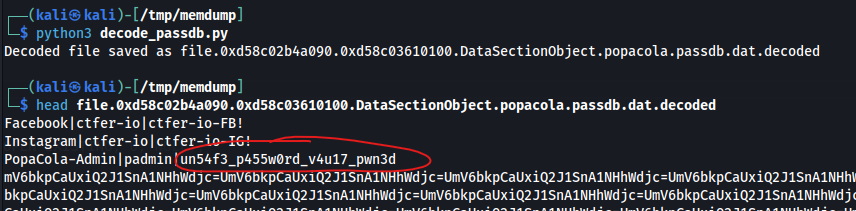
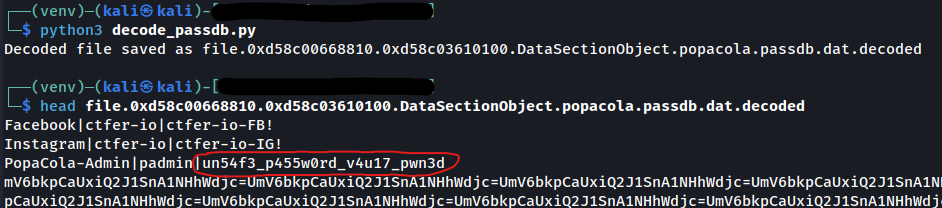
Chall/the vault dweller (#37)
* adding the vault dweller

* update WU and add checksums in the dist

* fix: modifying WU and files according to the new memdump.zip

diff --git a/challenges/forensic/the-vault-dweller/wu.md b/challenges/forensic/the-vault-dweller/wu.md
@@ -11,31 +11,30 @@ On commence par identifier l'image mémoire qui nous a été donnée :
 
 ```bash
 # On identifie que c'est une image Windows avec file 
-file DESKTOP-VTIHOVH-20250426-132242.raw
+file DESKTOP-VTIHOVH-20250429-155900.raw
 ---
-DESKTOP-VTIHOVH-20250426-132242.raw: Windows Event Trace Log
+DESKTOP-VTIHOVH-20250429-155900.raw: Windows Event Trace Log
 ```
 
 ```bash
 # On récupère quelques informations sur l'image
-vol -f DESKTOP-VTIHOVH-20250426-132242.raw windows.info
+vol -f DESKTOP-VTIHOVH-20250429-155900.raw windows.info
 ```
 
 On scanne les processus lancés sur la machine :
 
 ```bash
-vol -f DESKTOP-VTIHOVH-20250426-132242.raw windows.pslist
+vol -f DESKTOP-VTIHOVH-20250429-155900.raw windows.pslist
 ---
 PID	    PPID	ImageFileName	Offset(V)	Threads	Handles	SessionId	Wow64	CreateTime	ExitTime	File output
 [SNIP]
-2800	948	    FileCoAuth.exe	0xd58bfd541080	2	-	1	False	2025-04-26 12:15:53.000000 UTC	N/A	Disabled
-9352	7992	msedge.exe	    0xd58bfd459080	10	-	1	False	2025-04-26 12:16:14.000000 UTC	N/A	Disabled
-9424	948	    RuntimeBroker.	0xd58bfe471080	3	-	1	False	2025-04-26 12:16:15.000000 UTC	N/A	Disabled
-8	    7992	msedge.exe	    0xd58bfd7e1080	17	-	1	False	2025-04-26 12:27:36.000000 UTC	N/A	Disabled
-2736	5300	Notepad.exe	    0xd58bfe0e6080	22	-	1	False	2025-04-26 12:32:05.000000 UTC	N/A	Disabled
-4732	5300	pcola-vault-ma	0xd58bfcc7e080	1	-	1	False	2025-04-26 12:37:52.000000 UTC	N/A	Disabled
-10236	4732	conhost.exe	    0xd58bfbfb8080	2	-	1	False	2025-04-26 12:37:52.000000 UTC	N/A	Disabled
-6684	948	    OpenConsole.ex	0xd58bfd9f5080	7	-	1	False	2025-04-26 12:37:52.000000 UTC	N/A	Disabled
+2696	7992	msedge.exe	    0xd58bfe1820c0	16	-	1	False	2025-04-29 15:47:23.000000 UTC	N/A	Disabled
+5844	796	    svchost.exe 	0xd58bfcbac0c0	11	-	0	False	2025-04-29 15:47:41.000000 UTC	N/A	Disabled
+6728	2240	audiodg.exe	    0xd58bfb9eb080	8	-	0	False	2025-04-29 15:47:43.000000 UTC	N/A	Disabled
+11816	5300	Notepad.exe	    0xd58bfd9f0080	17	-	1	False	2025-04-29 15:58:38.000000 UTC	N/A	Disabled
+1832	5300	pcola-vault-mg	0xd58bfc427080	15	-	1	False	2025-04-29 15:58:43.000000 UTC	N/A	Disabled
+11132	1832	conhost.exe	    0xd58bffc48080	6	-	1	False	2025-04-29 15:58:43.000000 UTC	N/A	Disabled
+4500	948	    OpenConsole.ex	0xd58bffd94080	11	-	1	False	2025-04-29 15:58:43.000000 UTC	N/A	Disabled
 [SNIP]
 ```
 
@@ -127,12 +126,14 @@ C'est ça qui cause les crash de l'application.
 Maintenant qu'on a davantage d'informations sur le fonctionnement de **pcola-vault-manager**, on dump le contenu du processus de la capture mémoire.
 
 ```bash
-vol -f DESKTOP-VTIHOVH-20250426-132242.raw windows.dumpfiles.DumpFiles --pid 4732
+vol -f DESKTOP-VTIHOVH-20250429-155900.raw windows.dumpfiles --pid 1832
 ---
 [SNIP]
-DataSectionObject	0xd58bfd077a20	windows.storage.dll.mui	Error dumping file
-DataSectionObject	0xd58c02b4a090	popacola.passdb	file.0xd58c02b4a090.0xd58c03610100.DataSectionObject.popacola.passdb.dat
-SharedCacheMap	0xd58c02b4a090	popacola.passdb	file.0xd58c02b4a090.0xd58bff824560.SharedCacheMap.popacola.passdb.vacb
+DataSectionObject	0xd58c00643330	user32.dll.mui	Error dumping file
+DataSectionObject	0xd58c00668810	popacola.passdb	file.0xd58c00668810.0xd58c03610100.DataSectionObject.popacola.passdb.dat
+SharedCacheMap	    0xd58c00668810	popacola.passdb	file.0xd58c00668810.0xd58bf85de010.SharedCacheMap.popacola.passdb.vacb
+DataSectionObject	0xd58c02e0bde0	StaticCache.dat	Error dumping file
+
 [SNIP]
 ```
 
@@ -145,19 +146,22 @@ Si on prend un peu de recul sur la situation, on peut voir qu'un processus *note
 Il se trouve que si on le dump on récupère un fichier qui nous intéresse.
 
 ```bash
-vol -f DESKTOP-VTIHOVH-20250426-132242.raw windows.dumpfiles.DumpFiles --pid 2736
+vol -f DESKTOP-VTIHOVH-20250429-155900.raw windows.dumpfiles --pid 11816
 ---
 [SNIP]
-DataSectionObject	0xd58c03e2dc10	R000000000006.clb	Error dumping file
-DataSectionObject	0xd58c03e056c0	1743ed46-d349-4695-a3e4-b3148aecab16.bin	file.0xd58c03e056c0.0xd58c00cba240.DataSectionObject.1743ed46-d349-4695-a3e4-b3148aecab16.bin.dat
-SharedCacheMap	0xd58c03e056c0	1743ed46-d349-4695-a3e4-b3148aecab16.bin	file.0xd58c03e056c0.0xd58bfd4d3870.SharedCacheMap.1743ed46-d349-4695-a3e4-b3148aecab16.bin.vacb
-DataSectionObject	0xd58bfd06d480	461036df-241d-4b85-8a32-a036a4ead270.1.bin	file.0xd58bfd06d480.0xd58bfd7c6440.DataSectionObject.461036df-241d-4b85-8a32-a036a4ead270.1.bin.dat
-SharedCacheMap	0xd58bfd06d480	461036df-241d-4b85-8a32-a036a4ead270.1.bin	file.0xd58bfd06d480.0xd58bfc8b4010.SharedCacheMap.461036df-241d-4b85-8a32-a036a4ead270.1.bin.vacb
+DataSectionObject	0xd58c02e08410	461036df-241d-4b85-8a32-a036a4ead270.0.bin	Error dumping file
+SharedCacheMap	    0xd58c02e08410	461036df-241d-4b85-8a32-a036a4ead270.0.bin	file.0xd58c02e08410.0xd58bfb9064d0.SharedCacheMap.461036df-241d-4b85-8a32-a036a4ead270.0.bin.vacb
+DataSectionObject	0xd58c00659450	461036df-241d-4b85-8a32-a036a4ead270.1.bin	file.0xd58c00659450.0xd58bfd7c6440.DataSectionObject.461036df-241d-4b85-8a32-a036a4ead270.1.bin.dat
+SharedCacheMap	    0xd58c00659450	461036df-241d-4b85-8a32-a036a4ead270.1.bin	file.0xd58c00659450.0xd58bfbd439e0.SharedCacheMap.461036df-241d-4b85-8a32-a036a4ead270.1.bin.vacb
+DataSectionObject	0xd58c0065a0d0	1743ed46-d349-4695-a3e4-b3148aecab16.bin	file.0xd58c0065a0d0.0xd58c02c9b840.DataSectionObject.1743ed46-d349-4695-a3e4-b3148aecab16.bin.dat
+SharedCacheMap	    0xd58c0065a0d0	1743ed46-d349-4695-a3e4-b3148aecab16.bin	file.0xd58c0065a0d0.0xd58bfd7d8cd0.SharedCacheMap.1743ed46-d349-4695-a3e4-b3148aecab16.bin.vacb
+DataSectionObject	0xd58c0065d460	KernelBase.dll.mui	                        file.0xd58c0065d460.0xd58bfa7b3470.DataSectionObject.KernelBase.dll.mui.dat
+
 [SNIP]
 ```
 
-Le format du fichier *.bin* récupéré correspond aux **Tabstate** de Notepad sur les dernières versions de W11.
-Ils permettent de garder en mémoire (en réalité dans `C:\Users\popa-user\AppData\Local\Packages\Microsoft.WindowsNotepad_*\LocalState\TabState` ) les onglets ouverts dans Notepad mais pas sauvegardés en tant que fichiers par l'utilisateur.
+Le format des fichiers *.bin* récupéré correspond aux **Tabstate** de Notepad sur les dernières versions de W11.
+Ils permettent de garder en mémoire (en réalité dans `C:\Users\popa-user\AppData\Local\Packages\Microsoft.WindowsNotepad_*\LocalState\TabState`) les onglets ouverts dans Notepad mais pas sauvegardés en tant que fichiers par l'utilisateur.
 
 Des outils existent pour parser ces fichiers mais dans notre cas un simple coup de `xxd` nous permet de visualiser rapidement son contenu.
 
@@ -173,7 +177,7 @@ On réutilise le script que l'on a écrit plus haut pour déchiffrer la base :
 
 ```bash
 # on change les paramètres
-file_path = 'file.0xd58c02b4a090.0xd58c03610100.DataSectionObject.popacola.passdb.dat'
+file_path = 'file.0xd58c00668810.0xd58c03610100.DataSectionObject.popacola.passdb.dat'
 password = 'ReznJBiLbCbuJp54xVv7'
 ```
 

diff --git a/challenges/forensic/the-vault-dweller/infra/README.md b/challenges/forensic/the-vault-dweller/infra/README.md
@@ -5,5 +5,5 @@
 Compiler le binaire :
 
 ```bash
-x86_64-w64-mingw32-gcc -g -O0 -o passwdmanager.exe passwd-mgr.c -lcrypt32 -lcomdlg32
+x86_64-w64-mingw32-gcc -g -O0 -o pcola-vault-mgr.exe pcola-vault-mgr.c -lcrypt32 -lcomdlg32
 ```
